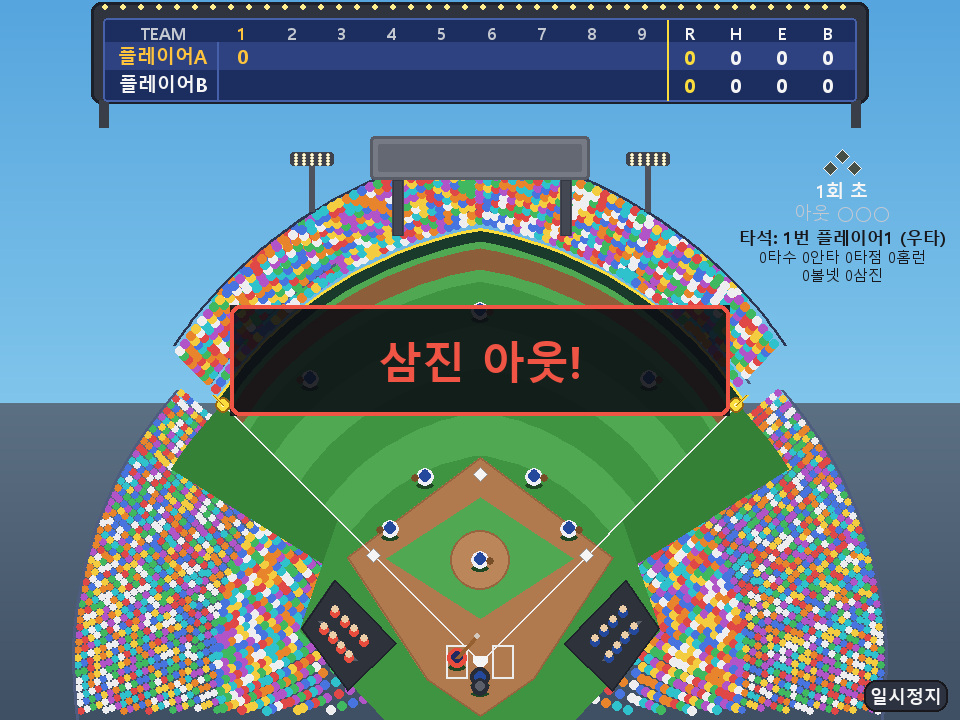
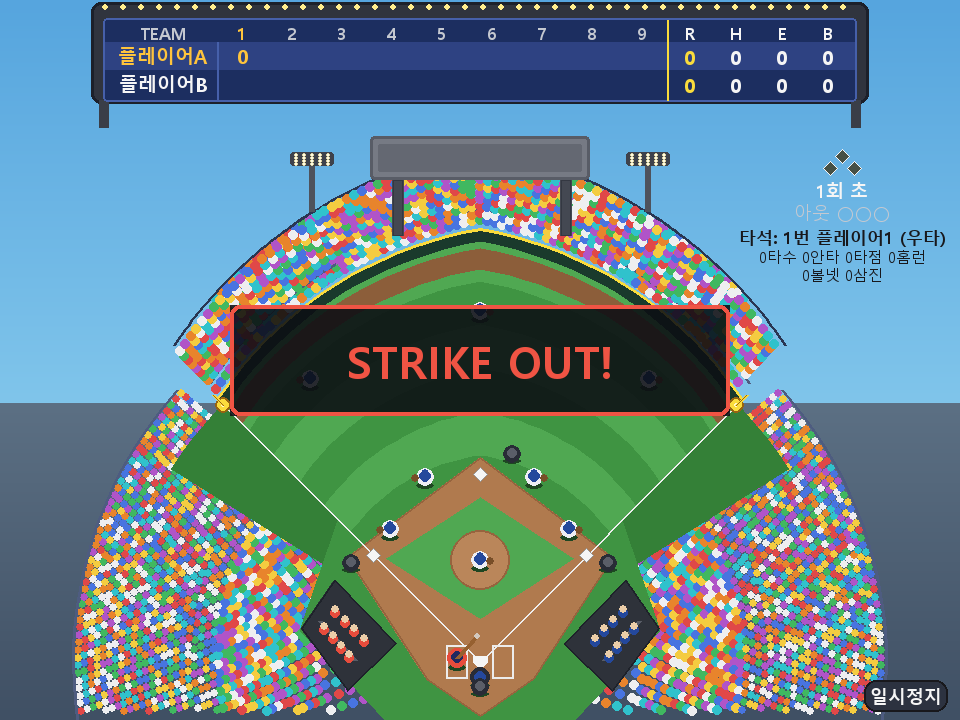
1-2루간/3-유간 안타 현실감 개선, 심판 위치·회피, 타구 밸런스 조정
- 1-2루간/3-유간은 항상 1루타로 통일, 내야수를 관통하지 않고 옆으로 비켜가도록 궤적 보정
- 내야 통과 후에야 담당 외야수가 앞으로 나와 포구하도록 타이밍 수정, 중계 송구·수비 도착 전 씬 전환되던 버그 수정
- 1루심/2루심/3루심 추가, 수비수 접근 시 자연스럽게(도보 속도로) 비켜서게 처리
- 캐치 판정 반경 조정으로 BABIP을 약 .380 수준으로 재조정
- 삼진 표기를 "STRIKE OUT!"으로 통일

diff --git a/baseball/app.py b/baseball/app.py
@@ -46,6 +46,10 @@ RUNNER_SEGMENT_TIME = {1: 1.8, 2: 2.8, 3: 3.6, 4: 4.3}
 RUNNER_STEP_SEC = 1.8   # 위 표에 없는 경우(이론상 없음)의 기본 세그먼트당 시간
 REL_THROW_DELAY = 0.5   # 외야수가 공을 잡은(t_flight) 후 중계 송구를 시작하기까지 지연
 REL_THROW_LEG = 0.85    # 중계 송구 한 구간(외야수→중계수비수, 중계수비수→3루수) 시간
+GAP_LEG1_FRAC = 0.55    # gap_pass_dist 정보가 없을 때(안전장치) 쓰는 기본 거리 비중
+GAP_LEG1_SPEED = 230.0  # 내야수를 스쳐 지나가기 전까지 속도(ft/s, 직선타 아웃과 비슷)
+GAP_LEG2_SPEED = 130.0  # 내야수를 지나 외야 쪽으로 흘러갈 때 속도(ft/s, 느려짐)
+UMPIRE_STEP_SPEED = 16.0  # 심판이 수비수를 피할 때 실제로 걸어서 움직이는 속도(ft/s)
 
 # 좌측 패널 위치(구종 선택 / S B O)
 LEFT_PANEL_X = 14
@@ -150,7 +154,7 @@ HELP_LINES = [
     ("body", "· 투구 시 좌측 S/B/O 패널 아래에 구종·구속이 표시됩니다"),
     ("gap", ""),
     ("head", "타구 결과"),
-    ("body", "· 안타·2루타·3루타·홈런, 내야 안타, 실책 출루"),
+    ("body", "· 안타·2루타·3루타·홈런, 내야 안타, 실책"),
     ("body", "· 홈런: 솔로/2·3·만루·그랜드슬램 멘트, 득점 시 +N점 표시"),
     ("body", "· 득점 안타: 「N타점 적시타」 멘트(안타·1루타·2루타 등)"),
     ("body", "· 내야: 땅볼 아웃·송구, 내야 직선타 아웃"),
@@ -555,6 +559,16 @@ def _lerp(a, b, p):
     return (a[0] + (b[0] - a[0]) * p, a[1] + (b[1] - a[1]) * p)
 
 
+def _step_toward(cur, target, speed, dt):
+    """cur 에서 target 방향으로 speed(ft/s)만큼만 이동(순간이동 방지)."""
+    dx, dy = target[0] - cur[0], target[1] - cur[1]
+    dist = math.hypot(dx, dy)
+    step = speed * dt
+    if dist <= step or dist < 1e-6:
+        return target
+    return (cur[0] + dx / dist * step, cur[1] + dy / dist * step)
+
+
 _OUTFIELD = ("좌익수", "중견수", "우익수")
 _OUTFIELD_SHIFT_MIN_FT = 115.0
 
@@ -632,6 +646,11 @@ class PlayScene:
         self._of_relay = False
         self._of_relay_first = None
         self._of_relay_final = None
+        self._gap_pass_frac = GAP_LEG1_FRAC
+        self._gap_t1 = 0.0
+        self._gap_mid = field.HOME
+        self._ump_disp = {"1B": field.UMPIRE_1B, "2B": field.UMPIRE_2B,
+                          "3B": field.UMPIRE_3B}
 
         self.result_text = ""
         self.result_color = C.WHITE
@@ -726,6 +745,9 @@ class PlayScene:
         self.anim_total = 0.0
         self._runner_free_pace = False
         self._of_relay = False
+        self._gap_pass_frac = GAP_LEG1_FRAC
+        self._gap_t1 = 0.0
+        self._gap_mid = field.HOME
         if self.game.is_over():
             self.app.change_scene(GameOverScene(self.app, self.game))
             return
@@ -862,10 +884,8 @@ class PlayScene:
             elif self.game.is_over() and self.game.game_tied:
                 self._show_result("경기 종료\n무승부", C.ACCENT2,
                                   long_display=True)
-            elif kind == "look":
-                self._show_result("루킹 삼진!", C.ACCENT)
             else:
-                self._show_result("삼진 아웃!", C.ACCENT)
+                self._show_result("STRIKE OUT!", C.ACCENT)
         else:
             self._show_result(f"스트라이크 (S{self.strikes})", C.ACCENT2,
                               re_pitch=True)
@@ -888,6 +908,21 @@ class PlayScene:
             self.t_flight = {"ground": 1.0, "fly": 1.35, "liner": 0.6}.get(bt, 1.35)
             if bt == "fly" and plan["kind"] == "hr":
                 self.t_flight = 1.7
+            if bt == "gap":
+                # 실제로 그 내야수 옆을 스쳐 지나가는 지점(gap_pass_dist)까지는
+                # 빠르게, 그 이후 외야 쪽으로 흘러갈 때는 느려지도록 두 구간
+                # 속도를 정해서 거리 기반으로 소요 시간을 계산한다.
+                total_dist = field.dist_ft(field.HOME, plan["landing"])
+                pass_dist = plan.get("gap_pass_dist", total_dist * GAP_LEG1_FRAC)
+                pass_dist = min(pass_dist, total_dist * 0.9) if total_dist > 0 else 0.0
+                self._gap_pass_frac = (pass_dist / total_dist) if total_dist > 0 else GAP_LEG1_FRAC
+                self._gap_t1 = pass_dist / GAP_LEG1_SPEED
+                gap_t2 = max(0.0, total_dist - pass_dist) / GAP_LEG2_SPEED
+                self.t_flight = self._gap_t1 + gap_t2
+                # 내야수 몸을 그대로 관통하지 않도록, 통과 지점을 내야수 옆으로
+                # 살짝 밀어낸다 — 직선으로 뚫는 게 아니라 옆으로 비켜 나가는 궤적.
+                straight_mid = _lerp(field.HOME, plan["landing"], self._gap_pass_frac)
+                self._gap_mid = self._avoid_infielders(straight_mid)
             throw = plan.get("throw_to") is not None and plan["kind"] in ("out", "hit", "error")
             self._dp_throw = bool(plan.get("double_play"))
             self._has_throw = throw and bt == "ground"
@@ -898,7 +933,10 @@ class PlayScene:
             elif self._dp_throw:
                 self.anim_total = self.t_flight + self._dp_t1 + self._dp_t2 + 0.18
             else:
-                self.anim_total = self.t_flight + (0.7 if self._has_throw else 0.4)
+                # +0.55: 수비수 도착 페이스(tf+0.5)가 다 끝날 때까지는 애니메이션이
+                # 유지되도록 여유를 준다(그보다 짧으면 수비수가 도착하기 전에
+                # 다음 타석으로 넘어가 버린다).
+                self.anim_total = self.t_flight + (0.7 if self._has_throw else 0.55)
 
         # 주자 트랙 구성.
         # - 송구(1루 송구/포스아웃/병살)가 있는 플레이는 주자가 "송구와 경합"하는
@@ -918,6 +956,13 @@ class PlayScene:
         self._of_relay = bool(plan.get("relay_fielder"))
         self._of_relay_first = plan.get("relay_fielder")
         self._of_relay_final = plan.get("relay_final")
+        if self._of_relay:
+            # 중계 송구가 끝까지(내야수가 공을 받을 때까지) 다 보이도록 그
+            # 시점까지 애니메이션을 늘려둔다 — 안 그러면 송구 도중에 다음
+            # 타석으로 넘어가 버린다.
+            relay_legs = 2 if self._of_relay_final else 1
+            relay_end = self.t_flight + REL_THROW_DELAY + REL_THROW_LEG * relay_legs
+            self.anim_total = max(self.anim_total, relay_end + 0.2)
 
         # 판정(안타/아웃/홈런 등)이 확정되는 시점.
         # - 홈런·1루타·실책은 공이 담장을 넘거나 떨어지는 순간 이미 결과가
@@ -1148,6 +1193,12 @@ class PlayScene:
         if self.swing_progress is not None and self.swing_progress < 1.0:
             self.swing_progress = min(1.0, self.swing_progress + dt / SWING_ANIM_SEC)
 
+        for key, home in (("1B", field.UMPIRE_1B), ("2B", field.UMPIRE_2B),
+                          ("3B", field.UMPIRE_3B)):
+            target = self._umpire_pos(home)
+            self._ump_disp[key] = _step_toward(self._ump_disp[key], target,
+                                               UMPIRE_STEP_SPEED, dt)
+
         if self.phase == P_READY:
             self.timer -= dt
             if self.timer <= 0:
@@ -1224,6 +1275,20 @@ class PlayScene:
             tp = min(1.0, (self.anim_t - tf) / 0.55)
             self.ball_pos = _lerp(land, plan["throw_to"], tp)
             self.ball_h = 12.0 * math.sin(math.pi * tp)
+        elif plan["ball_type"] == "gap":
+            # 1-2루간/3-유간/라인 안타: 실제로 그 내야수 옆을 스쳐 지나가는
+            # 지점(gap_pass_dist)까지는 직선타 아웃과 비슷하게 빠르게, 내야수를
+            # 지나고 나면(외야 쪽으로 흘러갈 때) 느려진다.
+            mid = self._gap_mid
+            t1 = self._gap_t1
+            t2 = max(0.05, self.t_flight - t1)
+            if self.anim_t <= t1:
+                tp = self.anim_t / max(0.05, t1)
+                self.ball_pos = _lerp(field.HOME, mid, tp)
+            else:
+                tp = min(1.0, (self.anim_t - t1) / t2)
+                self.ball_pos = _lerp(mid, land, tp)
+            self.ball_h = 4.0
         else:
             self.ball_pos = _lerp(field.HOME, land, p)
             if plan["ball_type"] == "foul":
@@ -1277,6 +1342,13 @@ class PlayScene:
             home_pos = field.FIELDERS_HOME[fb]
             if plan["kind"] == "out":
                 fp = min(1.0, p * 1.05)
+            elif plan.get("ball_type") == "gap":
+                # 1-2루간/3-유간/라인 안타: 공이 내야를 완전히 빠져나가기
+                # 전까지는 담당 외야수가 미리 반응하지 않다가, 빠져나간
+                # 뒤에야 살짝 앞으로 걸어 나와 공을 잡는다.
+                delay = self._gap_t1
+                span = max(0.3, (tf + 0.5) - delay)
+                fp = min(1.0, max(0.0, self.anim_t - delay) / span)
             else:
                 # 안타(특히 2·3루타)는 주자를 다 뛰게 하려고 anim_total 이
                 # 길게 늘어나 있는데, 수비수가 여기 맞춰 움직이면 공 떨어진
@@ -1362,6 +1434,9 @@ class PlayScene:
         self._draw_defense(s, def_col)
         field.draw_catcher(s, def_col)
         field.draw_umpire(s)
+        field.draw_umpire(s, self._ump_disp["1B"])
+        field.draw_umpire(s, self._ump_disp["2B"])
+        field.draw_umpire(s, self._ump_disp["3B"])
         field.draw_batter(s, right_handed=self.game.batter_is_right(),
                           swing=self.swing_progress or 0.0, jersey_color=off_col)
 
@@ -1399,6 +1474,32 @@ class PlayScene:
             self._draw_pause_overlay(s)
         if self.show_pitcher_sub:
             self._draw_pitcher_sub_modal(s)
+
+    def _umpire_pos(self, home_pos, min_dist=20.0):
+        """수비수가 다가오면(수비 애니메이션 중) 심판이 살짝 비켜서게 한다."""
+        px, py = home_pos
+        for fx, fy in self.fielder_positions.values():
+            dx, dy = px - fx, py - fy
+            dist = math.hypot(dx, dy)
+            if 1e-3 < dist < min_dist:
+                push = min_dist - dist
+                px += dx / dist * push
+                py += dy / dist * push
+        return (px, py)
+
+    def _avoid_infielders(self, pt, min_dist=16.0):
+        """1-2루간/3-유간/라인 안타의 통과 지점이 내야수 몸을 관통하지 않도록
+        옆으로 밀어낸다(내야수 홈 포지션 기준)."""
+        px, py = pt
+        for name in ("1루수", "2루수", "유격수", "3루수"):
+            fx, fy = field.FIELDERS_HOME[name]
+            dx, dy = px - fx, py - fy
+            dist = math.hypot(dx, dy)
+            if 1e-3 < dist < min_dist:
+                push = min_dist - dist
+                px += dx / dist * push
+                py += dy / dist * push
+        return (px, py)
 
     def _draw_defense(self, s, jersey_color):
         for name, pos in self.fielder_positions.items():

diff --git a/baseball/gamestate.py b/baseball/gamestate.py
@@ -439,6 +439,8 @@ FLY_CARRY_MULT = 315.0
 FLY_LB_PEAK = 32.0
 FLY_LB_WIDTH = 30.0
 FLY_LB_FLOOR = 0.4
+FLY_CATCH_RADIUS = 26.0     # BABIP .380 근처로 맞춤(캐치 판정 반경)
+LINER_CATCH_RADIUS = 28.0
 _XBH_CUSHION_BASE_FT = 5.0     # 외야수 정면 바로 앞 기본 여유(ft) — 정면은 이 정도만
 _XBH_CUSHION_LATERAL_FT = 3.9  # 정면 각도에서 벗어난 정도(도)당 추가 여유(ft, 갭/라인일수록 커짐)
 RELEASE = 0.55               # 포구 후 송구까지 지연
@@ -569,13 +571,25 @@ def resolve_batted_ball(power, spray_deg, launch_deg, bases, outs):
                 reach = min(reach, PITCHER_GROUND_REACH_FT)
             if perp <= reach:
                 can.append((proj, name, t))
+        # 1-2루간/3-유간, 1루수-1루/3루수-3루 사이 라인 쪽은 폭이 좁아서(1-2/3-유간
+        # 약 50ft) reach 계산상 거의 항상 누군가 잡는 걸로 나온다. 실제로는
+        # 강하게 잡아당긴 타구가 그 좁은 틈을 그대로 꿰뚫는 경우가 있으므로,
+        # 그 방향으로 강하게 맞은 타구는 낮은 확률로 그대로 빠지게 한다.
+        # (1-2루간/3-유간이 라인 쪽보다 훨씬 자주 나오도록 확률을 따로 둔다.)
+        if can and power > _INFIELD_GAP_POWER_MIN:
+            if any(lo <= spray_deg <= hi for lo, hi in _INFIELD_MID_GAP_BANDS):
+                if random.random() < _INFIELD_MID_GAP_STEAL_PROB:
+                    can = []
+            elif any(lo <= spray_deg <= hi for lo, hi in _INFIELD_LINE_GAP_BANDS):
+                if random.random() < _INFIELD_LINE_GAP_STEAL_PROB:
+                    can = []
         if can:
             can.sort()
             proj, fielder, t = can[0]
             fpos = F.FIELDERS_HOME[fielder]
             # 실책
             if random.random() < 0.06:
-                return dict(kind="error", label="실책 출루", ball_type="ground",
+                return dict(kind="error", label="실책", ball_type="ground",
                             landing=fpos, field_by=fielder, throw_to=F.B1,
                             bases=1, outs=0, double_play=False,
                             sac_fly=False, error=True)
@@ -628,15 +642,21 @@ def resolve_batted_ball(power, spray_deg, launch_deg, bases, outs):
             return _foul_plan(roll_pt)
         gb_fielder = _outfielder_for(spray_deg)
         gb_of_depth = F.dist_ft(F.HOME, F.FIELDERS_HOME[gb_fielder])
-        bases_n = (2 if power > 0.58 and abs(spray_deg) > 15
-                  and roll_dist > gb_of_depth else 1)
+        # 1-2루간/3-유간(내야수 두 명 사이)은 항상 1루타로만 처리한다.
+        in_mid_gap = (_GAP_3B_LINE_DEG < spray_deg <= _GAP_3B_SS_DEG
+                     or _GAP_2B_1B_DEG < spray_deg <= _GAP_1B_LINE_DEG)
+        bases_n = 1 if in_mid_gap else (
+            2 if power > 0.58 and abs(spray_deg) > 15
+            and roll_dist > gb_of_depth else 1)
         relay_fielder, relay_final = _relay_plan(bases_n, spray_deg)
-        return dict(kind="hit", label="안타!" if bases_n == 1 else "2루타!",
-                    ball_type="ground", landing=roll_pt,
+        label = _gap_label(spray_deg) if bases_n == 1 else "2루타!"
+        return dict(kind="hit", label=label,
+                    ball_type="gap", landing=roll_pt,
                     field_by=gb_fielder, throw_to=None,
                     bases=bases_n, outs=0, double_play=False,
                     sac_fly=False, error=False,
-                    relay_fielder=relay_fielder, relay_final=relay_final)
+                    relay_fielder=relay_fielder, relay_final=relay_final,
+                    gap_pass_dist=_gap_pass_dist(spray_deg))
 
     # ---------------------------------------------------- 뜬공 / 라인드라이브 / 팝업
     if launch_deg >= 50:  # 팝업
@@ -653,12 +673,12 @@ def resolve_batted_ball(power, spray_deg, launch_deg, bases, outs):
     if liner:
         carry = 130 + power * 180
         hang = 0.6 + power * 0.5
-        radius = 12
+        radius = LINER_CATCH_RADIUS
     else:  # 뜬공
         lb = max(FLY_LB_FLOOR, 1 - ((launch_deg - FLY_LB_PEAK) / FLY_LB_WIDTH) ** 2)
         carry = (FLY_CARRY_BASE + power * FLY_CARRY_MULT) * lb
         hang = 1.3 + (launch_deg / 45.0) * 2.0 + power * 0.5
-        radius = 10
+        radius = FLY_CATCH_RADIUS
 
     # 홈런
     if not liner and carry >= fence:
@@ -766,6 +786,52 @@ def _outfielder_for(spray_deg):
     if spray_deg > 15:
         return "우익수"
     return "중견수"
+
+
+# 내야수 사이를 빠져나가는 안타의 통과 지점(각도 기준, 실제 내야수 배치각과 매칭)
+_GAP_3B_LINE_DEG = -34.0    # 3루수 라인 밖(3루 라인)
+_GAP_3B_SS_DEG = -16.5      # 3루수-유격수 사이
+_GAP_2B_1B_DEG = 16.5       # 2루수-1루수 사이
+_GAP_1B_LINE_DEG = 34.0     # 1루수 라인 밖(1루 라인)
+# 3루수-유격수 / 2루수-1루수 사이(1-2루간/3-유간) — 강습타가 두 내야수 사이를
+# 그대로 꿰뚫을 수 있는 구간. 라인 쪽보다 훨씬 자주 나오게 확률을 높게 둔다.
+_INFIELD_MID_GAP_BANDS = ((16.0, 34.0), (-34.0, -16.0))
+_INFIELD_MID_GAP_STEAL_PROB = 0.78
+# 1루수-1루 베이스 / 3루수-3루 베이스 사이 좁은 라인 쪽 틈 — 드물게만 나온다.
+_INFIELD_LINE_GAP_BANDS = ((34.0, 44.5), (-44.5, -34.0))
+_INFIELD_LINE_GAP_STEAL_PROB = 0.5
+_INFIELD_GAP_POWER_MIN = 0.45
+
+
+def _gap_label(spray_deg):
+    """내야를 빠져나가는 안타의 통과 구간별 안내 문구."""
+    if spray_deg <= _GAP_3B_LINE_DEG:
+        return "안타! (3루 라인)"
+    if spray_deg <= _GAP_3B_SS_DEG:
+        return "안타! (3-유간)"
+    if spray_deg <= _GAP_2B_1B_DEG:
+        return "안타! (센터 앞)"
+    if spray_deg <= _GAP_1B_LINE_DEG:
+        return "안타! (1-2루간)"
+    return "안타! (1루 라인)"
+
+
+_CORNER_INFIELD_DEPTH = F.dist_ft(F.HOME, F.FIELDERS_HOME["1루수"])   # == 3루수
+_MID_INFIELD_DEPTH = F.dist_ft(F.HOME, F.FIELDERS_HOME["2루수"])      # == 유격수
+_GAP_PASS_DEPTH = (_CORNER_INFIELD_DEPTH + _MID_INFIELD_DEPTH) / 2.0
+
+
+def _gap_pass_dist(spray_deg):
+    """내야를 빠져나가는 안타가 실제로 내야수 옆을 스쳐 지나가는 거리(ft).
+
+    라인 쪽(1루/3루수 라인 밖)은 그 코너 내야수 깊이, 1-2루간/3-유간은 두
+    내야수 깊이의 중간, 센터는 중견수 쪽 내야수(2루수/유격수) 깊이를 쓴다.
+    """
+    if spray_deg <= _GAP_3B_LINE_DEG or spray_deg > _GAP_1B_LINE_DEG:
+        return _CORNER_INFIELD_DEPTH
+    if spray_deg <= _GAP_3B_SS_DEG or spray_deg > _GAP_2B_1B_DEG:
+        return _GAP_PASS_DEPTH
+    return _MID_INFIELD_DEPTH
 
 
 def _relay_plan(bases_n, spray_deg):

diff --git a/baseball/field.py b/baseball/field.py
@@ -47,6 +47,10 @@ FIELDERS_HOME = {
 }
 CATCHER = (0.0, -9.0)
 UMPIRE = (0.0, -15.0)
+# 루심(1루심/3루심은 파울 라인 밖으로, 2루심은 2루 뒤 얕은 외야 쪽으로)
+UMPIRE_1B = (78.0, 60.0)
+UMPIRE_3B = (-78.0, 60.0)
+UMPIRE_2B = (24.0, 152.0)
 
 # ---------------------------------------------------------------- 화면 변환
 SB_H = 104                       # 전광판 높이
@@ -491,8 +495,9 @@ def draw_catcher(surface, cap_color=C.TEAM_AWAY):
     pygame.draw.circle(surface, C.CAP_GLOVE, (x, y + 8), 5)     # 미트
 
 
-def draw_umpire(surface):
-    x, y = to_screen(*UMPIRE)
+def draw_umpire(surface, pos=UMPIRE):
+    """심판(주심/1루심/2루심/3루심 공통 — 위치만 다르고 모양은 동일)."""
+    x, y = to_screen(*pos)
     pygame.draw.ellipse(surface, (30, 70, 34), (x - 9, y + 4, 18, 6))
     pygame.draw.circle(surface, C.UMP_COLOR, (x, y), 9)
     pygame.draw.circle(surface, (90, 94, 104), (x, y - 1), 5)   # 헬멧

diff --git a/capture_screenshots.py b/capture_screenshots.py
@@ -142,7 +142,7 @@ def capture_all():
     # 2인 — 삼진
     s = _play_scene(_make_2p_game())
     s.phase = P_RESULT
-    s.result_text = "삼진 아웃!"
+    s.result_text = "STRIKE OUT!"
     s.result_color = C.ACCENT
     _save(s, "11_result_strikeout.png")
 
